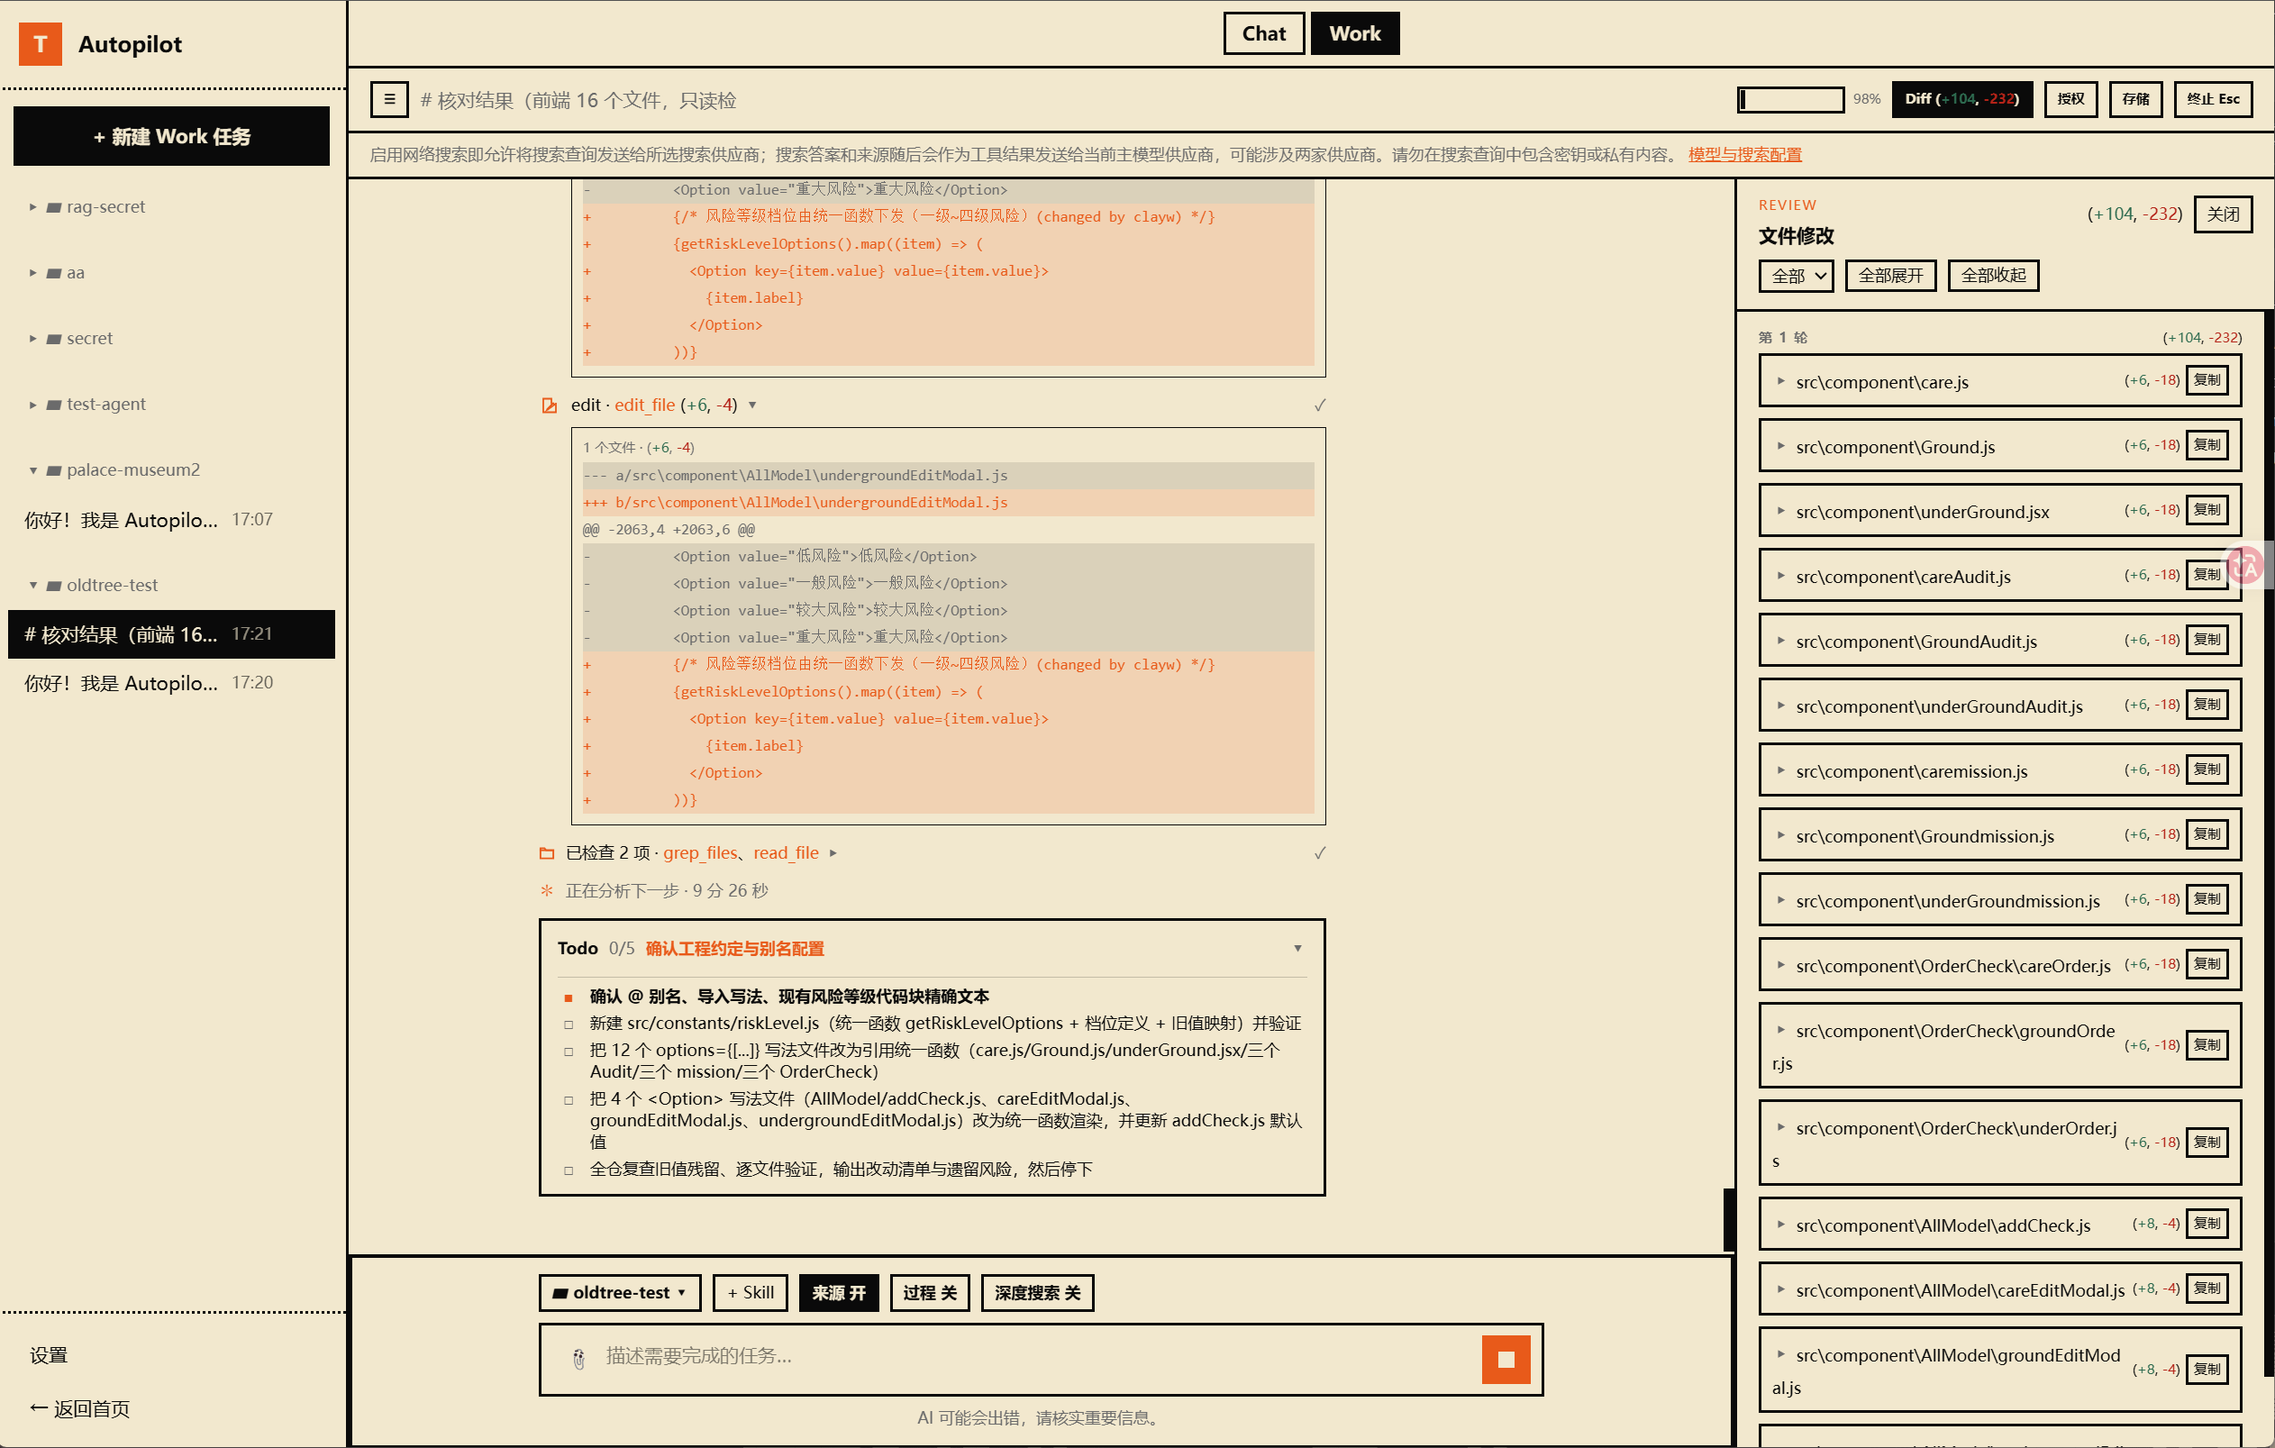
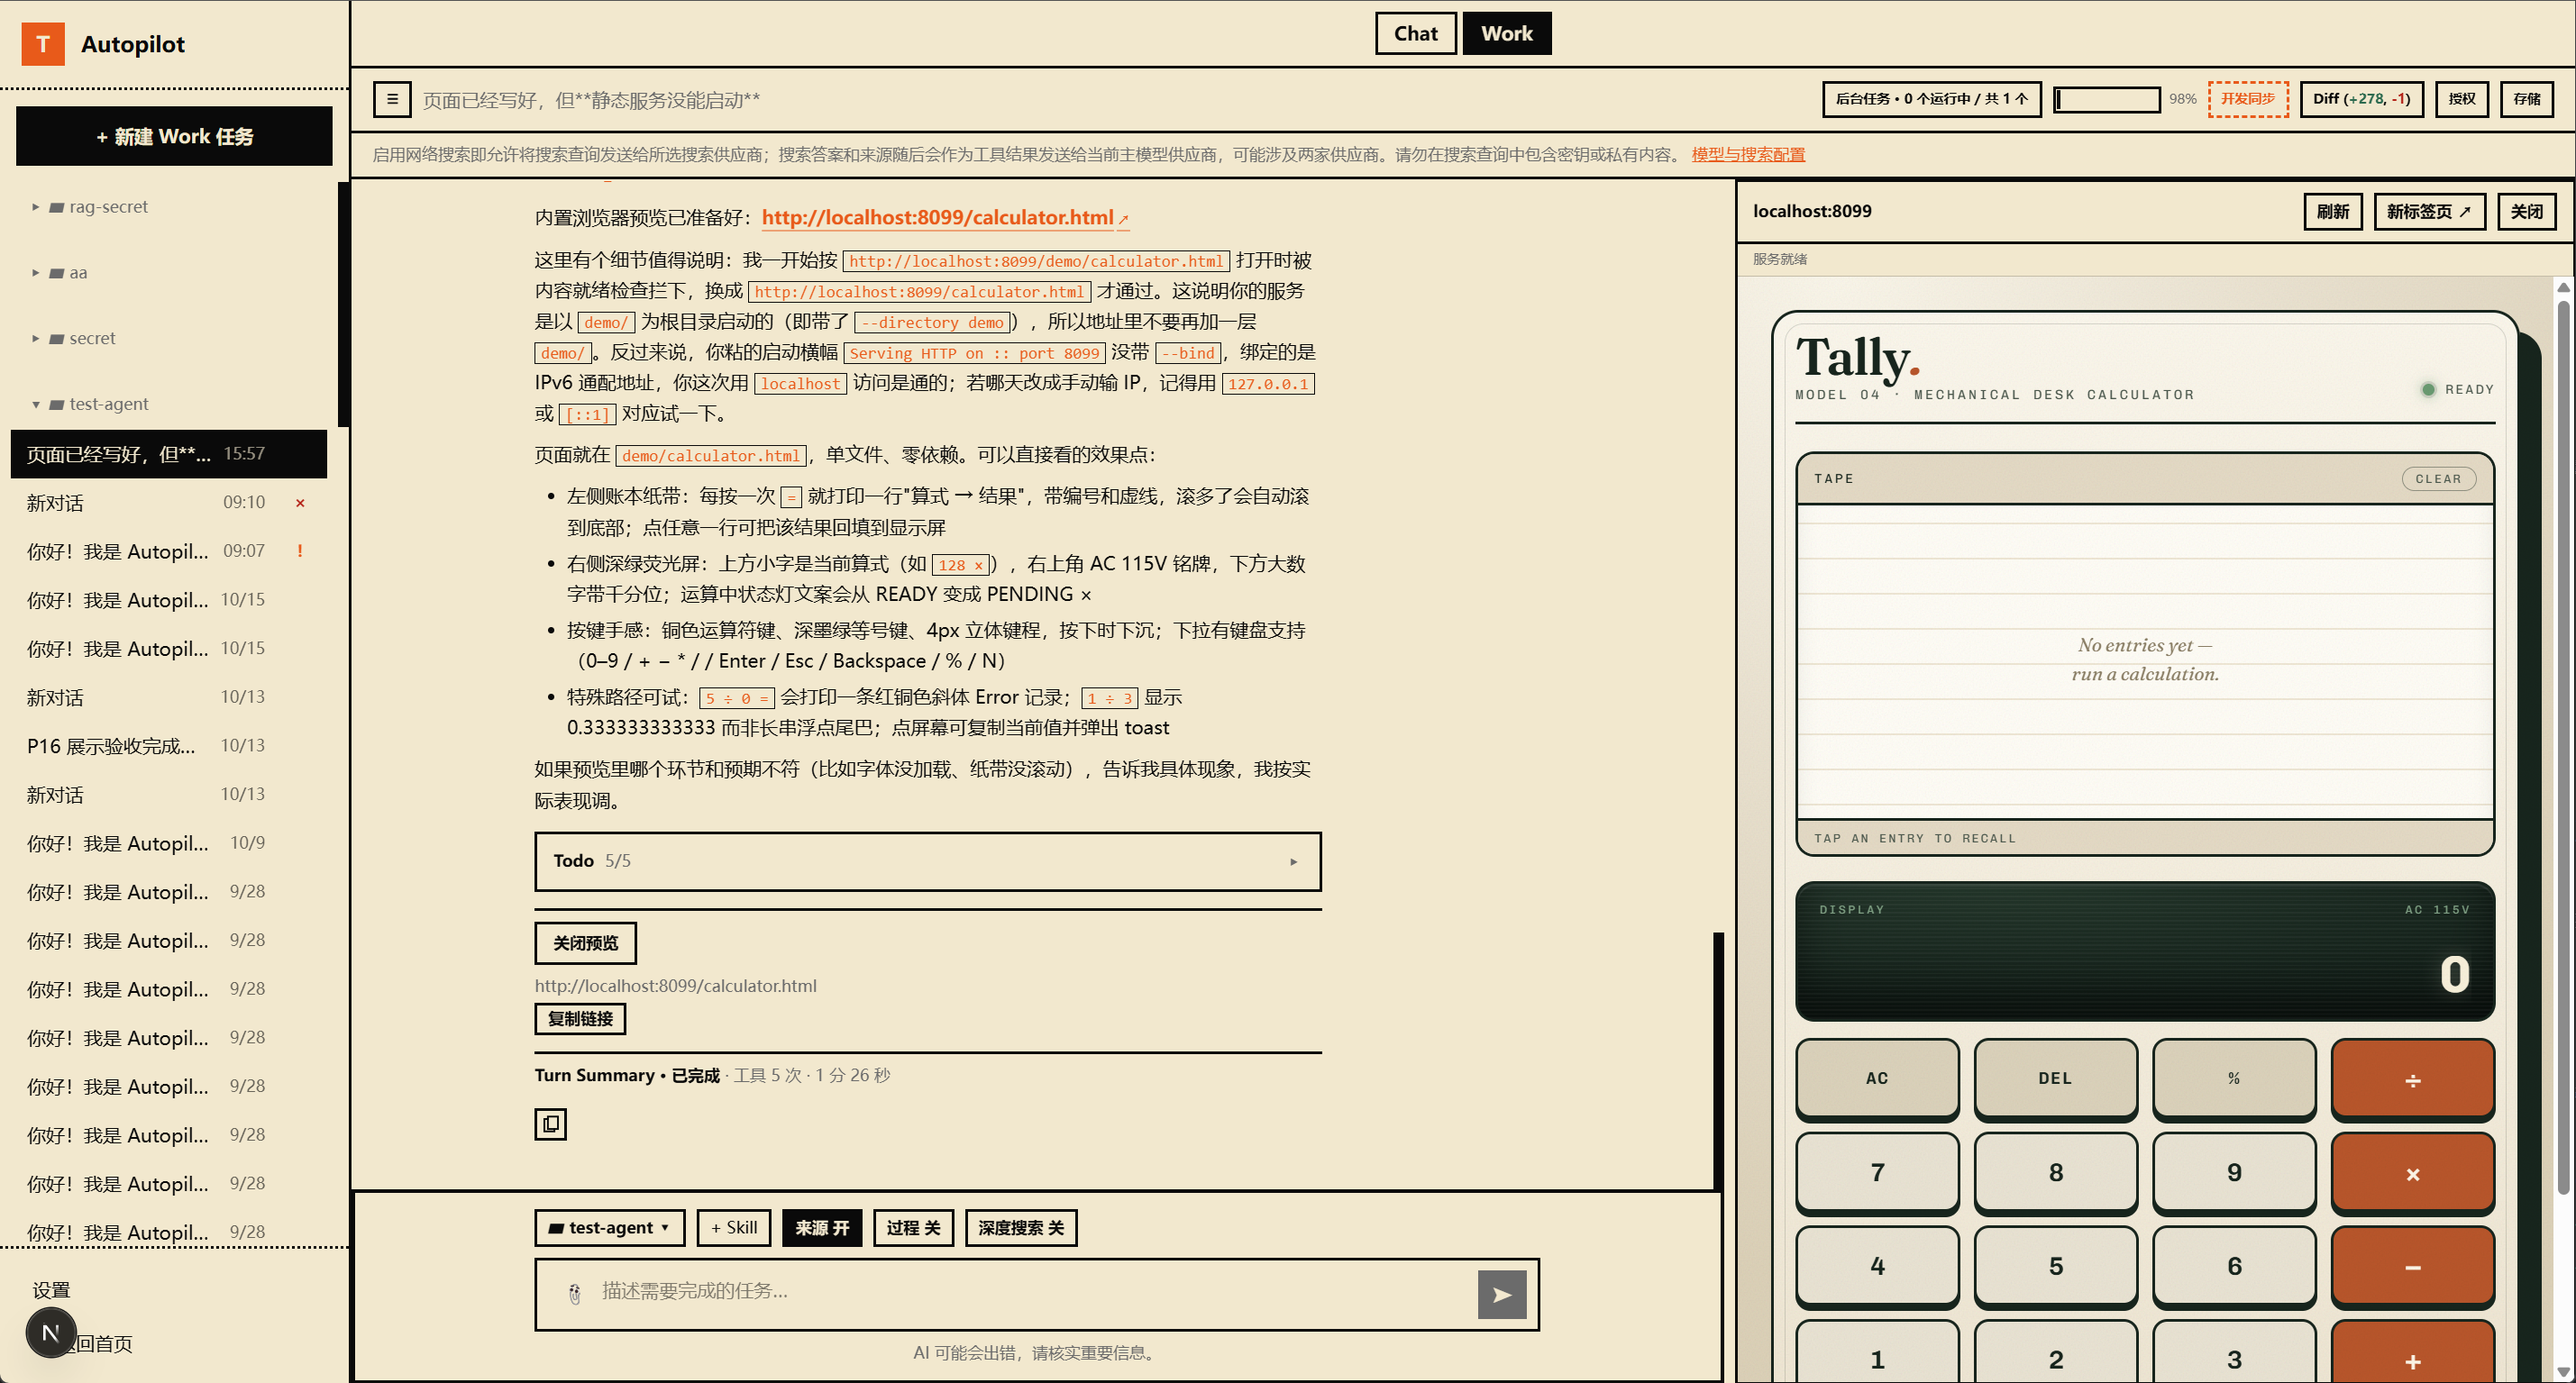
docs: update README, dependency audit and Web screenshot

diff --git a/packages/autopilot-agent/README.md b/packages/autopilot-agent/README.md
@@ -5,14 +5,14 @@
 
 本 npm 包分发 CLI，不包含 Web 或 Desktop 应用，也不提供私有知识库 RAG、AutoMemory 或内置浏览器预览。
 
-本手册以已发布 npm 0.1.0 的安装和配置为基础；GitHub 源码可能包含后续修复。推荐 Node 20.20.2 与 npm 10。
+本手册以已发布 npm 0.2.0 的安装和配置为基础；GitHub 源码可能包含后续修复。推荐 Node 20.20.2 与 npm 10。
 
 ## 安装
 
 需要 **Node.js >=20.11.0 且 <22** 和 npm。首次安装需要网络连接；部分依赖包含平台二进制或安装脚本。
 
 ```bash
-npm install -g autopilot-agent@0.1.0
+npm install -g autopilot-agent@0.2.0
 ap --help
 ```
 
@@ -127,10 +127,10 @@ npm uninstall -g autopilot-agent
 
 卸载 npm 包不表示删除用户配置、凭据或会话数据。
 
-## npm 0.1.0 的已知限制
+## npm 0.2.0 的已知限制
 
-- Windows 和 macOS 的沙箱需要相应平台条件；安装成功不表示已完成沙箱初始化或隔离验收。通过 `ap doctor` 和 `ap sandbox status` 检查实际状态。
-- Windows 后台 Job 全进程树停止、显式 sandbox MCP 的 stdin 转发目前存在已知问题；默认 host MCP 未提供 OS 隔离。不要依赖这些路径处理不可信任务或需要可靠回收的长任务。
+- Windows 不启用 OS 进程沙箱；命令、后台 Job 和 host MCP 经逐次审批后以当前用户权限直接执行，审批不提供隔离。`ap sandbox status` / `ap sandbox setup` 返回停用报告，不安装 Windows 沙箱。
+- 后台 Job 的完整进程树回收仍有真实环境验收边界；不要仅凭根进程退出判断整棵进程树已停止。macOS 继续使用 Seatbelt，沙箱不可用时受隔离保护的命令拒绝执行。
 - macOS 全链路验收尚未完成，Linux 未纳入本次支持验收。Provider 可用性、限额和调用费用由所配置的服务决定。
 - 当前为早期版本，重要工作区请保留版本控制或备份；不承诺任意平台、协议端点和外部工具的兼容性。
 
@@ -159,7 +159,7 @@ npm uninstall -g autopilot-agent
 | /undo | 先查看最近一轮可撤销文件改动，再确认撤销 |
 | /cancel、/exit | 取消任务或退出 |
 
-完整命令语法见 [CLI 参考](https://github.com/C-Clay-W/autopilot/blob/main/agent/doc/CLI-Reference.md)。该参考随源码更新，可能包含 npm 0.1.0 之后的能力；安装版先用 ap --help 确认可用命令。
+完整命令语法见 [CLI 参考](https://github.com/C-Clay-W/autopilot/blob/main/agent/doc/CLI-Reference.md)。该参考随源码更新，可能包含 npm 0.2.0 之后的能力；安装版先用 ap --help 确认可用命令。
 
 ## 脚本调用与会话管理
 
@@ -182,7 +182,7 @@ ap job list
 
 Trust 表示你允许该项目作为工作区参与运行，不等于自动批准全部操作。ask、auto_approve、full_access 是工具授权策略；auto_approve 的安全写入和工作区命令仍依赖 Trust，full_access 仍保留路径、Schema 和破坏性命令检查。
 
-OS 沙箱是独立能力，依赖本机平台和系统配置。使用 ap sandbox status / ap doctor 检查，不把 npm 安装成功或拒绝执行当成隔离验收。MCP server 的 command 需要显式授权；项目 Trust 不代替 MCP 审批，默认 host MCP 也不提供 OS 隔离。
+Windows 的进程执行不提供 OS 沙箱；macOS 的 Seatbelt 隔离依赖相应系统条件。使用 ap sandbox status / ap doctor 检查实际状态，不把 npm 安装成功或拒绝执行当成隔离验收。MCP server 的 command 需要显式授权；项目 Trust 不代替 MCP 审批，默认 host MCP 不提供 OS 隔离。
 
 提交重要任务前保留 Git 提交或备份。Undo 只覆盖可撤销的文件修改，不是数据库、网络副作用、外部进程或任意命令的通用回滚。
 
@@ -211,21 +211,21 @@ OS 沙箱是独立能力，依赖本机平台和系统配置。使用 ap sandbox
 ## 五包组成与源码
 
 ```text
-autopilot-agent@0.1.0
-├── @autopilot-agent/cli@0.1.0
-│   └── @autopilot-agent/presentation@0.1.0
-├── @autopilot-agent/core@0.1.0
-└── @autopilot-agent/adapters@0.1.0
+autopilot-agent@0.2.0
+├── @autopilot-agent/cli@0.2.0
+│   └── @autopilot-agent/presentation@0.2.0
+├── @autopilot-agent/core@0.2.0
+└── @autopilot-agent/adapters@0.2.0
 ```
 
 CLI 也直接依赖 Core 和 Adapters，Adapters/Presentation 依赖 Core。主包的 bin 解析已安装的 CLI 并转发参数、标准流及退出结果；不重复实现 Agent Runtime。schema/cc-compatible-settings.schema.json 提供配置结构参考，实际允许字段仍受 Runtime 校验。
 
-源码仓库：https://github.com/C-Clay-W/autopilot 。源码还包含 Web；它不随 npm 主包安装。开发者可阅读各包 README、Core API 和 BUILD.md，从源码修改并验证。当前源码可以先于 registry 中的 0.1.0，不能仅凭版本字段判断二者完全相同。
+源码仓库：https://github.com/C-Clay-W/autopilot 。源码还包含 Web；它不随 npm 主包安装。开发者可阅读各包 README、Core API 和 BUILD.md，从源码修改并验证。源码与 npm 分别交付；Web 不随 CLI 包安装，实际能力仍取决于宿主与平台。
 
 ## 源码 0.2.0 与 npm 版本
 
-本次源码版本为 0.2.0，不表示 npm 已发布该版本；上面的 npm 0.1.0 安装示例继续对应旧归档。Windows 源码已移除进程沙箱，命令、后台 Job 与 host MCP 逐次审批后以当前用户权限直接执行；审批不提供 OS 隔离。macOS 继续使用 Seatbelt。实机与进程树生命周期仍需按实际验证确认。
+源码与五个 npm 包当前版本均为 0.2.0。Windows 不提供 OS 进程沙箱，命令、后台 Job 与 host MCP 逐次审批后以当前用户权限直接执行；审批不提供 OS 隔离。macOS 继续使用 Seatbelt。实机与进程树生命周期仍需按实际验证确认。
 
 ## 许可证
 
-本公开源码采用 MIT，见 LICENSE；第三方依赖和字体保留各自许可证。已发布的 npm 0.1.0 不会因本次源码整理而被替换或重新发布。
+本公开源码采用 MIT，见 LICENSE；第三方依赖和字体保留各自许可证。已发布的 npm 0.2.0 不会因本次源码整理而被替换或重新发布。

diff --git a/packages/adapters/README.md b/packages/adapters/README.md
@@ -1,6 +1,6 @@
 # @autopilot-agent/adapters
 
-Autopilot 的共享 Node.js 宿主适配层，为 Core 的 RuntimePorts 提供实际文件存储、工作区、凭据和系统能力。普通用户安装 `autopilot-agent@0.1.0` 即自动获得本包。
+Autopilot 的共享 Node.js 宿主适配层，为 Core 的 RuntimePorts 提供实际文件存储、工作区、凭据和系统能力。普通用户安装 `autopilot-agent@0.2.0` 即自动获得本包。
 
 ## 提供什么
 
@@ -39,13 +39,13 @@ npm run build -w packages/adapters
 npm run test -w packages/adapters -- test/node-credential-store.test.ts
 ```
 
-从 monorepo 根运行。输出 CJS/ESM 和声明；Core、Node 内置模块及 Anthropic sandbox-runtime 保持 external。0.1.0 精确依赖 sandbox-runtime 0.0.78；不要因安装成功就声称系统隔离、原生 Job 全树回收或跨平台实机验证完成。
+从 monorepo 根运行。输出 CJS/ESM 和声明；Core、Node 内置模块及 Anthropic sandbox-runtime 保持 external。0.2.0 精确依赖 sandbox-runtime 0.0.78；不要因安装成功就声称系统隔离、原生 Job 全树回收或跨平台实机验证完成。
 
 Windows 不加载 sandbox-runtime：进程工具经逐次审批后以当前用户权限直接执行，没有 OS 沙箱，`sandbox status` / `sandbox setup` 返回宿主执行停用报告；不要把它描述为隔离执行。参考 [Core API](https://github.com/C-Clay-W/autopilot/blob/main/agent/doc/Core-API.md)、[构建说明](https://github.com/C-Clay-W/autopilot/blob/main/BUILD.md) 和主包的平台限制。
 
 ## 源码 0.2.0 与 npm 版本
 
-本次源码版本为 0.2.0，不表示 npm 已发布该版本；上面的 npm 0.1.0 安装示例继续对应旧归档。Windows 源码已移除进程沙箱，命令、后台 Job 与 host MCP 逐次审批后以当前用户权限直接执行；审批不提供 OS 隔离。macOS 继续使用 Seatbelt。实机与进程树生命周期仍需按实际验证确认。
+源码与五个 npm 包当前版本均为 0.2.0。Windows 不提供 OS 进程沙箱，命令、后台 Job 与 host MCP 逐次审批后以当前用户权限直接执行；审批不提供 OS 隔离。macOS 继续使用 Seatbelt。实机与进程树生命周期仍需按实际验证确认。
 
 ## 许可证
 

diff --git a/README.md b/README.md
@@ -52,7 +52,7 @@ flowchart TB
 需要 Node.js `>=20.11.0 <22`，建议 Node 20.20.2 与 npm 10。
 
 ```bash
-npm install -g autopilot-agent@0.1.0
+npm install -g autopilot-agent@0.2.0
 ap --help
 ```
 
@@ -84,7 +84,7 @@ node apps/cli/dist/main.js --help
 | [@autopilot-agent/presentation](packages/presentation/README.md) | 共享安全事件投影、时间线、分组和展示文案 |
 | [apps/web](apps/web/README.md) | Next.js 本地 Chat / Work 界面，源码运行，不作为 npm 应用分发 |
 
-当前源码版本为 **0.2.0**，五个 npm 包此前已发布版本仍为 **0.1.0**；本次 GitHub 源码更新不发布 npm。Windows 宿主执行等变化以源码版本为准，不能从 npm 0.1.0 安装命令推断已获得这些变化。详见 [更新日志](CHANGELOG.md)。
+源码与五个 npm 包当前版本均为 **0.2.0**；Web 仍仅通过源码运行。详见 [更新日志](CHANGELOG.md)。
 
 Web Work 新增内置预览面板及 `open_preview`：模型只准备导航，不读取或验证网页；Chat/CLI 不提供此工具。预览与后台 Job 绑定由宿主核验，仍需完整浏览器与 Provider 实机验收。
 

diff --git a/packages/presentation/README.md b/packages/presentation/README.md
@@ -1,6 +1,6 @@
 # @autopilot-agent/presentation
 
-CLI 与 Web 共用的纯 TypeScript 展示层：把 Runtime 安全事件和宿主事件转换为可重放的时间线状态。普通用户安装 `autopilot-agent@0.1.0`，CLI 会带入本包。
+CLI 与 Web 共用的纯 TypeScript 展示层：把 Runtime 安全事件和宿主事件转换为可重放的时间线状态。普通用户安装 `autopilot-agent@0.2.0`，CLI 会带入本包。
 
 ## 核心接口
 
@@ -40,7 +40,7 @@ npm run build -w packages/presentation
 npm run test -w packages/presentation -- test/todo.test.ts
 ```
 
-从 monorepo 根运行。产物为 CJS、ESM 和 TypeScript 声明，Core 保持 external；npm 0.1.0 精确依赖 Core 0.1.0。公开源码还保留 reducer、分组及展示行为测试和合成 fixture。
+从 monorepo 根运行。产物为 CJS、ESM 和 TypeScript 声明，Core 保持 external；npm 0.2.0 精确依赖 Core 0.2.0。公开源码还保留 reducer、分组及展示行为测试和合成 fixture。
 
 ## 许可证
 

diff --git a/BUILD.md b/BUILD.md
@@ -88,4 +88,4 @@ npm run typecheck -w packages/core
 
 ## 沙箱与平台
 
-源码 0.2.0 在 Windows 不提供 OS 进程沙箱：命令、后台 Job 和 host MCP 逐次审批后以当前用户权限运行。sandbox status / setup 返回停用报告，不安装 Windows 沙箱；审批不构成隔离。macOS 继续使用 Seatbelt，系统初始化属于显式操作。进程树回收与跨平台实机验证须单独确认。此前 npm 0.1.0 的行为与限制见主包手册。
+源码 0.2.0 在 Windows 不提供 OS 进程沙箱：命令、后台 Job 和 host MCP 逐次审批后以当前用户权限运行。sandbox status / setup 返回停用报告，不安装 Windows 沙箱；审批不构成隔离。macOS 继续使用 Seatbelt，系统初始化属于显式操作。进程树回收与跨平台实机验证须单独确认。npm 0.2.0 的使用与限制见主包手册。
